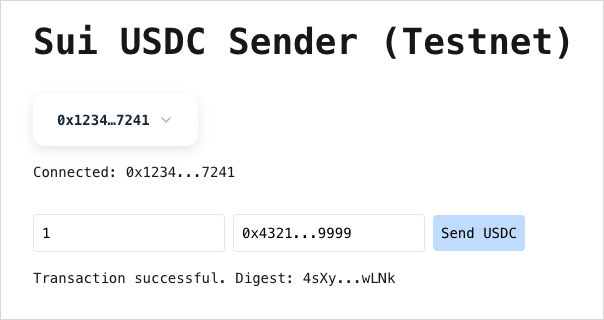
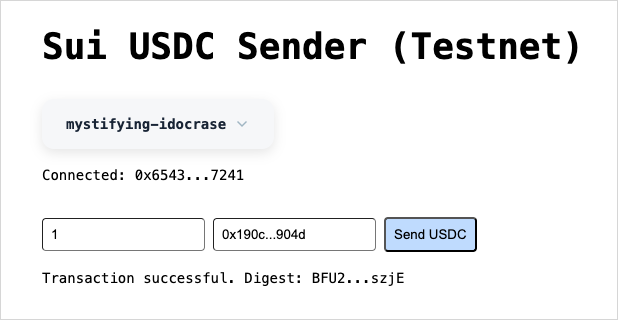
Updates to content and example

diff --git a/examples/usdc-transfer-app/App.js b/examples/usdc-transfer-app/App.js
@@ -1,7 +1,7 @@
 // Copyright (c) Mysten Labs, Inc.
 // SPDX-License-Identifier: Apache-2.0
 
-"use client";
+// docs::#setup
 import React, { useState, useEffect } from "react";
 import {
   createNetworkConfig,
@@ -17,6 +17,7 @@ import { getFullnodeUrl } from "@mysten/sui/client";
 import { QueryClient, QueryClientProvider } from "@tanstack/react-query";
 import { useState } from "react";
 import "@mysten/dapp-kit/dist/index.css";
+// docs::/#setup
 
 const { networkConfig } = createNetworkConfig({
   testnet: {
@@ -32,10 +33,10 @@ const queryClient = new QueryClient();
 
 // Define the USDC token type on Sui Testnet
 // This is the unique identifier for the USDC token on Sui
-const USDC_TYPE =
-  "0xa1ec7fc00a6f40db9693ad1415d0c193ad3906494428cf252621037bd7117e29::usdc::USDC";
+const USDC_TYPE = '0xa1ec7fc00a6f40db9693ad1415d0c193ad3906494428cf252621037bd7117e29::usdc::USDC';
 
 function HomeContent() {
+  // docs::#state
   // Use the wallet kit to get the current account and transaction signing function
   const currentAccount = useCurrentAccount();
   const { mutate: signAndExecuteTransaction } = useSignAndExecuteTransaction();
@@ -46,10 +47,13 @@ function HomeContent() {
   const [amount, setAmount] = useState("");
   const [recipientAddress, setRecipientAddress] = useState("");
   const [txStatus, setTxStatus] = useState("");
+  // docs::/#state
 
+  // docs::#useeffect
   useEffect(() => {
     setConnected(!!currentAccount);
   }, [currentAccount]);
+  // docs::/#useeffect
 
   const handleSendTokens = async () => {
     if (!currentAccount || !amount || !recipientAddress) {
@@ -101,45 +105,47 @@ function HomeContent() {
     }
   };
 
+  // docs::#ui
   return (
-    <main className="flex min-h-screen flex-col items-center justify-center p-24">
-      <div className="z-10 w-full max-w-5xl items-center justify-between font-mono text-sm">
-        <h1 className="text-4xl font-bold mb-8">Sui USDC Sender (Testnet)</h1>
+    <main className="mainwrapper">
+      <div className="outerwrapper">
+        <h1 className="h1">Sui USDC Sender (Testnet)</h1>
         <ConnectButton />
         {connected && currentAccount && (
-          <p className="mt-4">Connected: {currentAccount.address}</p>
+          <p className="status">Connected: {currentAccount.address}</p>
         )}
-        <div className="mt-8">
+        <div className="form">
           <input
             type="text"
             placeholder="Amount (in USDC)"
             value={amount}
             onChange={(e) => setAmount(e.target.value)}
-            className="p-2 border rounded mr-2 text-black"
+            className="input"
           />
           <input
             type="text"
             placeholder="Recipient Address"
             value={recipientAddress}
             onChange={(e) => setRecipientAddress(e.target.value)}
-            className="p-2 border rounded mr-2 text-black"
+            className="input"
           />
           <button
             onClick={handleSendTokens}
             disabled={!connected}
-            className={`p-2 rounded ${
+            className={`${
               connected && amount && recipientAddress
-                ? "bg-blue-200 text-black hover:bg-blue-300"
-                : "bg-gray-300 text-gray-500"
-            } transition-colors duration-200`}
+                ? "connected"
+                : "notconnected"
+            } transition`}
           >
             Send USDC
           </button>
         </div>
-        {txStatus && <p className="mt-4">{txStatus}</p>}
+        {txStatus && <p className="status">{txStatus}</p>}
       </div>
     </main>
   );
+  // docs::/#ui
 }
 
 function App() {

diff --git a/examples/usdc-transfer-app/global.css b/examples/usdc-transfer-app/global.css
@@ -1,0 +1,64 @@
+.mainwrapper {
+  display: flex;
+  flex-direction: column;
+  min-height: 100vh;
+  padding: 6rem;
+}
+
+.outerwrapper {
+  z-index: 10;
+  width: 100%;
+  max-width: 64rem;
+  margin: 0 auto; 
+  justify-content: center;
+  justify-content: space-between;
+  font-family: ui-monospace, SFMono-Regular, Menlo, Monaco, Consolas, "Liberation Mono", "Courier New", monospace;
+  font-size: 0.875rem;
+  line-height: 1.25rem;
+}
+
+.h1 {
+  font-size: 2.25rem;
+  line-height: 2.5rem;
+  font-weight: bold;
+  margin-bottom: 2rem;
+}
+
+.status {
+  margin-top: 1rem
+}
+
+.form {
+  margin-top: 2rem
+}
+
+.input {
+  padding: 0.5rem;
+  border-width: 1px;
+  border-radius: 0.25rem;
+  margin-right: 0.5rem;
+  color: black;
+}
+
+.connected {
+  background-color: rgb(191 219 254);
+  color: black;
+}
+
+.connected:hover {
+  background-color: rgb(147 197 253);
+}
+
+.notconnected {
+  background-color: rgb(209 213 219);
+  color: rgb(107 114 128);
+}
+
+.transition {
+  padding: 0.5rem;
+  border-radius: 0.25rem;
+  transition-property: color, background-color, border-color, text-decoration-color, fill, stroke;
+  transition-timing-function: cubic-bezier(0.4, 0, 0.2, 1);
+  transition-duration: 150ms;
+  transition-duration: 200ms;
+}

diff --git a/docs/site/src/plugins/inject-code/injectLoader.js b/docs/site/src/plugins/inject-code/injectLoader.js
@@ -180,7 +180,7 @@ const addCodeInject = function (source) {
                   }
                 });
                 let varContent = [];
-                if (language === "ts") {
+                if (language === "ts" || language === "js") {
                   const varTsFunction = `^( *)?.*?(let|const) \\b${variableName}\\b.*=>`;
                   const varTsVariable = `^( *)?.*?(let|const) \\b${variableName}\\b (?!.*=>)=.*;`;
                   const varTsRE = new RegExp(varTsFunction, "m");
@@ -518,6 +518,7 @@ const addCodeInject = function (source) {
                 language,
                 injectFile,
                 processed,
+                options,
               );
               // Temporarily replace double spaces with tabs. Replaced back downstream.
               // Prevents unexpected whitespace removal from util functions.

diff --git a/examples/usdc-transfer-app/index.html b/examples/usdc-transfer-app/index.html
@@ -3,7 +3,9 @@
 <head>
     <meta charset="UTF-8" />
     <meta name="viewport" content="width=device-width, initial-scale=1.0" />
-    <title>Minimal React App</title>
+    <title>Sui USDC Sender</title>
+    <link href="./global.css" rel="stylesheet">
+    <link rel="icon" href="./favicon.ico" type="image/x-icon" />
 </head>
 <body>
     <div id="root"></div>

diff --git a/examples/usdc-transfer-app/lib/App-stub.js b/examples/usdc-transfer-app/lib/App-stub.js
@@ -1,0 +1,17 @@
+// Copyright (c) Mysten Labs, Inc.
+// SPDX-License-Identifier: Apache-2.0
+
+// This file is used only for instruction.
+
+import React from 'react';
+
+function App() {
+  return (
+    <div>
+      <h1>Hello, World!</h1>
+      <p>This is a minimal React app.</p>
+    </div>
+  );
+}
+
+export default App;
